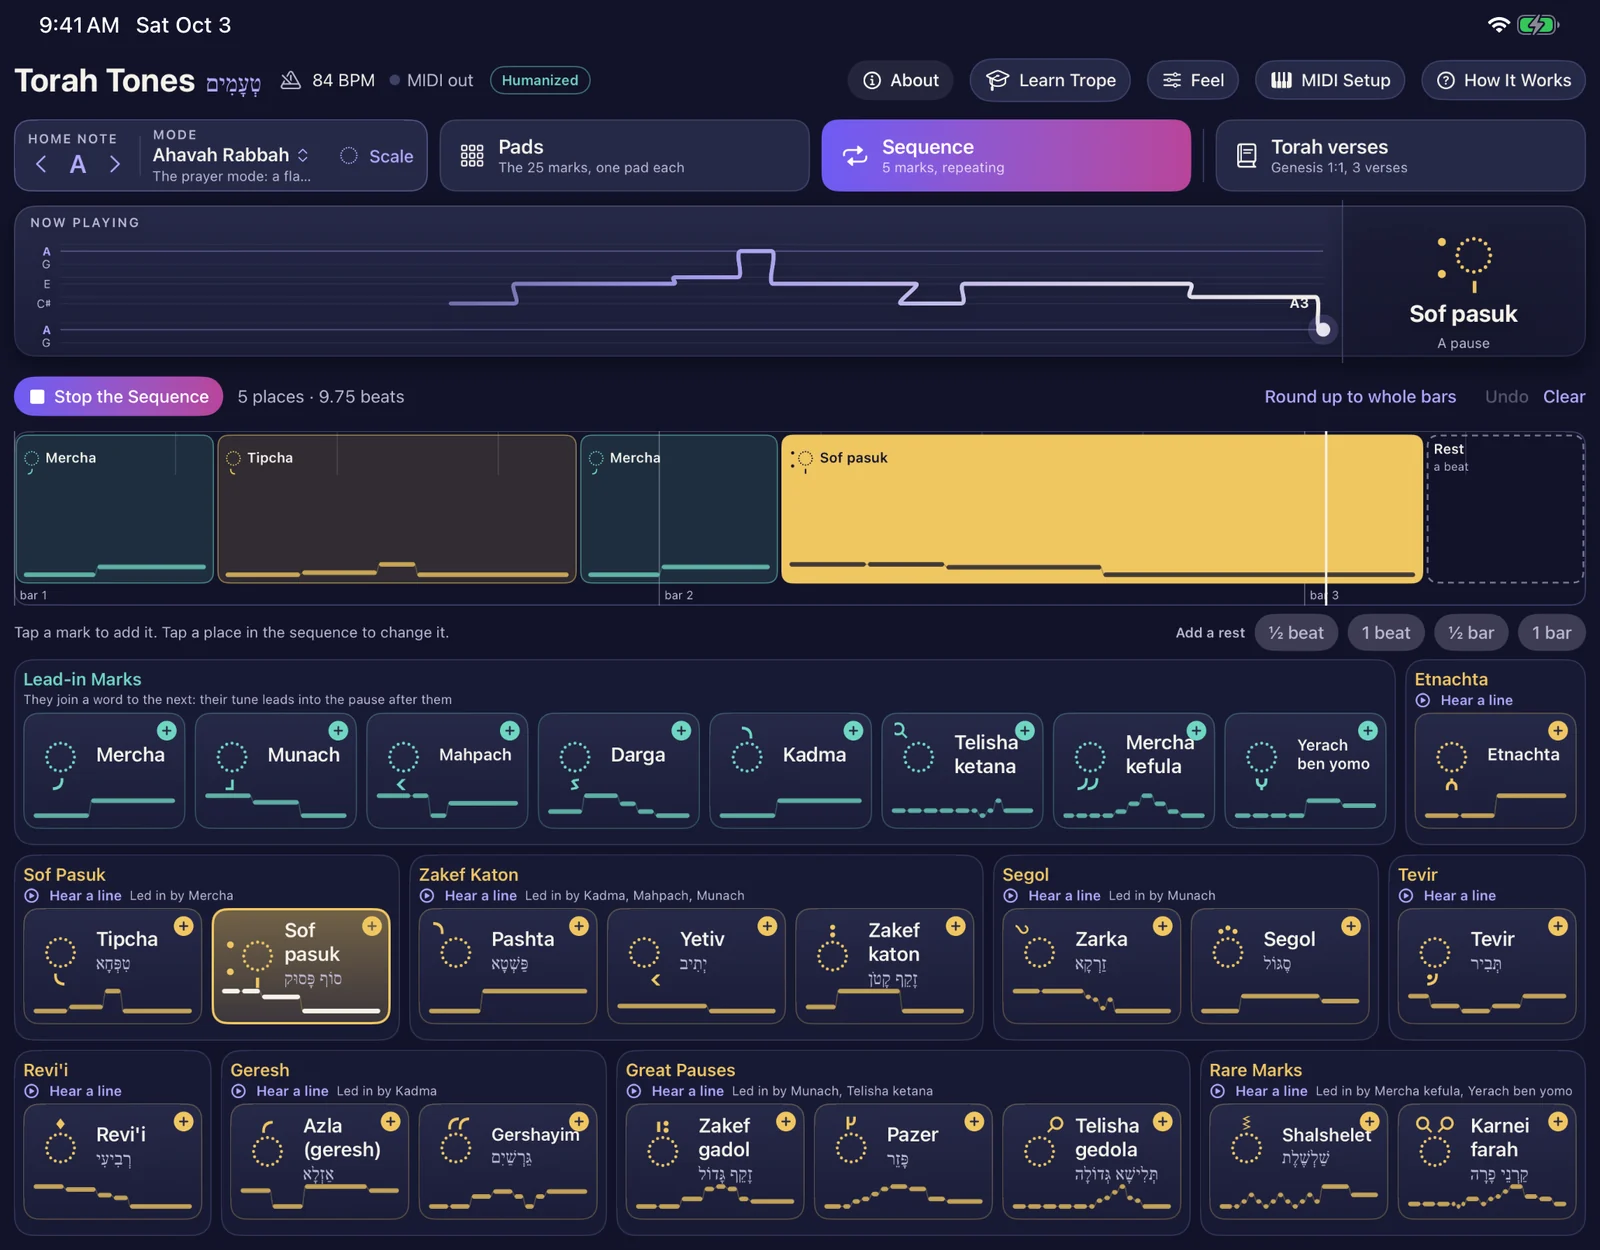
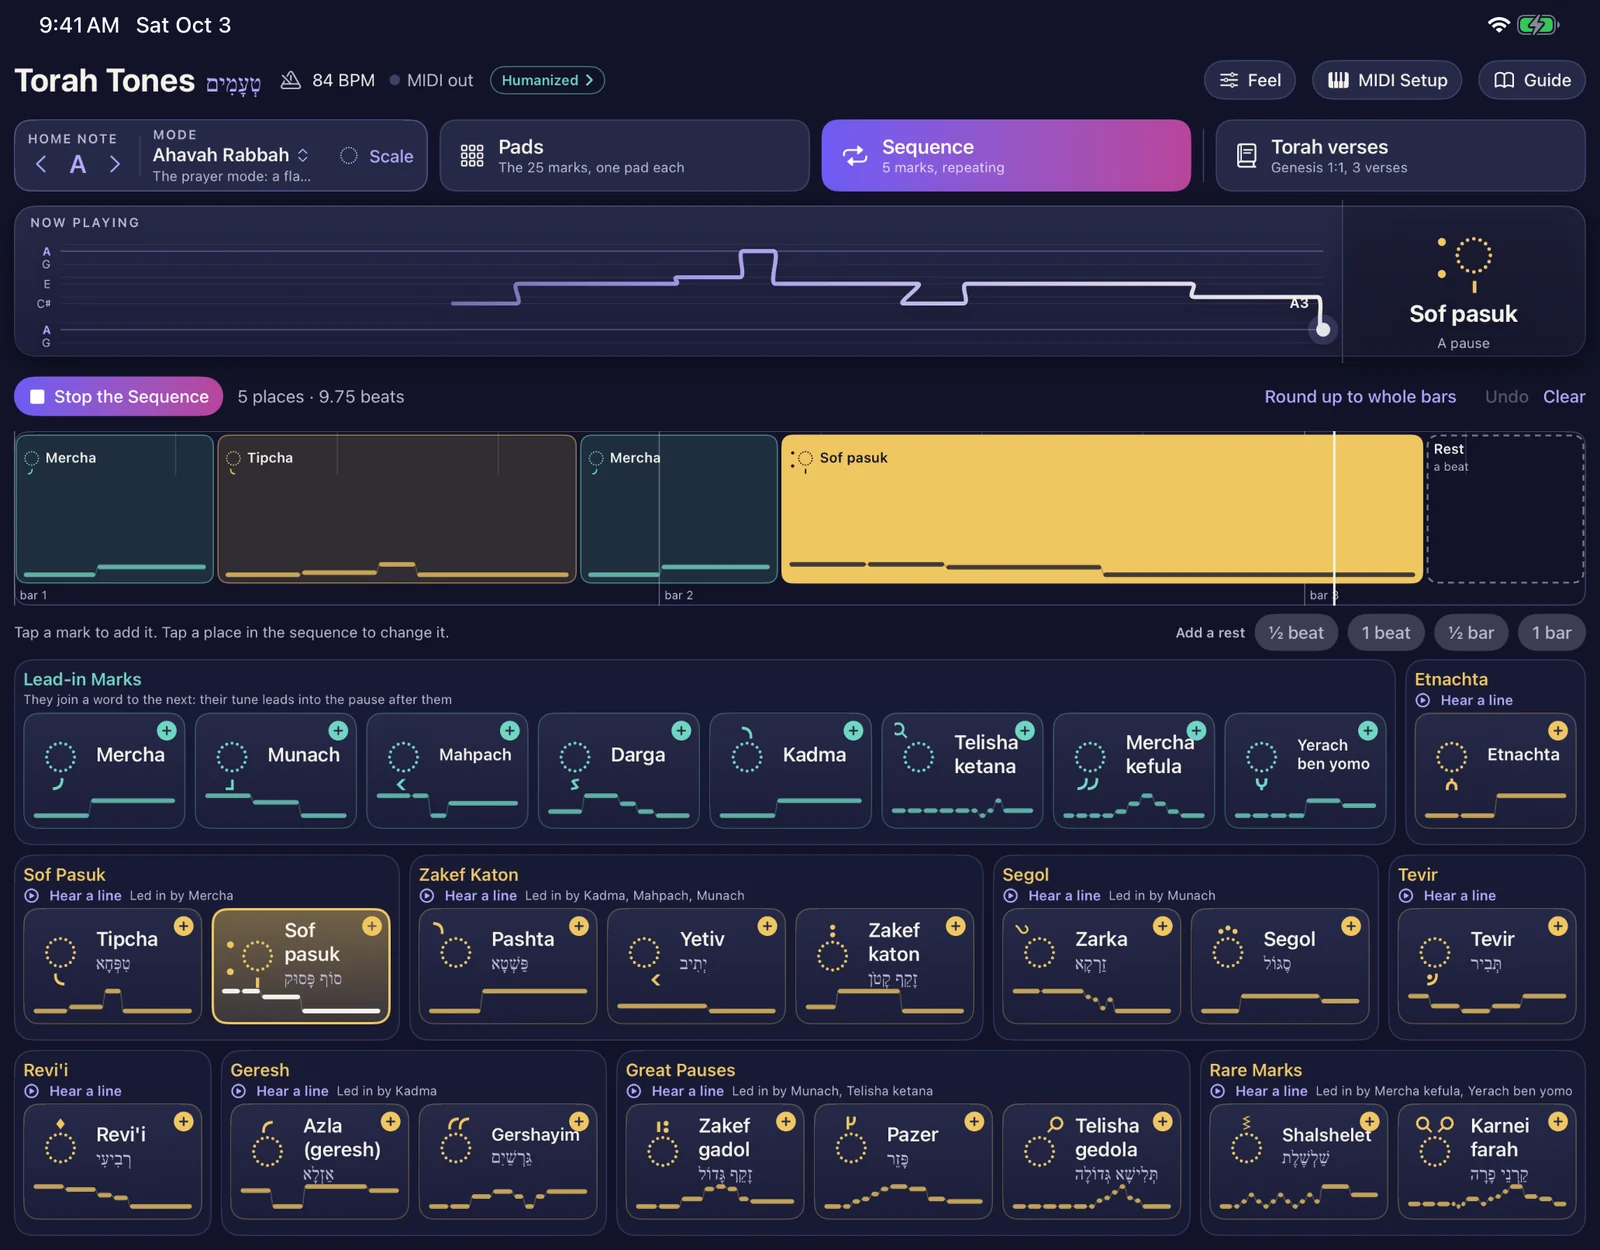
Header: Feel, MIDI Setup, Guide

Changed region(s): [[0.5625, 0.0312, 0.9688, 0.0936], [0.8125, 0.3432, 0.8438, 0.468]]

diff --git a/index.html b/index.html
@@ -36,7 +36,7 @@
       <a class="store-badge" data-store-live hidden href="#" aria-label="Download Torah Tones on the App Store"><picture><source srcset="img/app-store-badge-white.svg" media="(prefers-color-scheme: dark)"><img src="img/app-store-badge-black.svg" alt="Download on the App Store" width="132" height="44"></picture></a>
       <span class="soon" data-store-soon>Coming to the App Store</span>
   </div>
-  <div class="hero-shot"><img src="img/hero-ipad.webp?v=4" alt="Torah Tones on iPad: a sequence of phrases playing, with the 25 phrase pads below" width="1600" height="1250"></div>
+  <div class="hero-shot"><img src="img/hero-ipad.webp?v=5" alt="Torah Tones on iPad: a sequence of phrases playing, with the 25 phrase pads below" width="1600" height="1250"></div>
 </section>
 
 <div id="features"></div>

diff --git a/support.html b/support.html
@@ -48,7 +48,7 @@
     <dt>Which trope does it use?</dt>
     <dd>Reform Torah cantillation, as charted in The Art of Torah Cantillation. There are many traditions; this is one of them.</dd>
     <dt>New to trope?</dt>
-    <dd>Open Learn Trope at the top of the screen. To learn to chant it yourself, <a href="https://torahturnit.com/">Torah: Turn It</a> teaches it lesson by lesson.</dd>
+    <dd>Open Guide at the top of the screen, then Learn Trope. To learn to chant it yourself, <a href="https://torahturnit.com/">Torah: Turn It</a> teaches it lesson by lesson.</dd>
   </dl>
 </main>
 <footer><div class="wrap">
